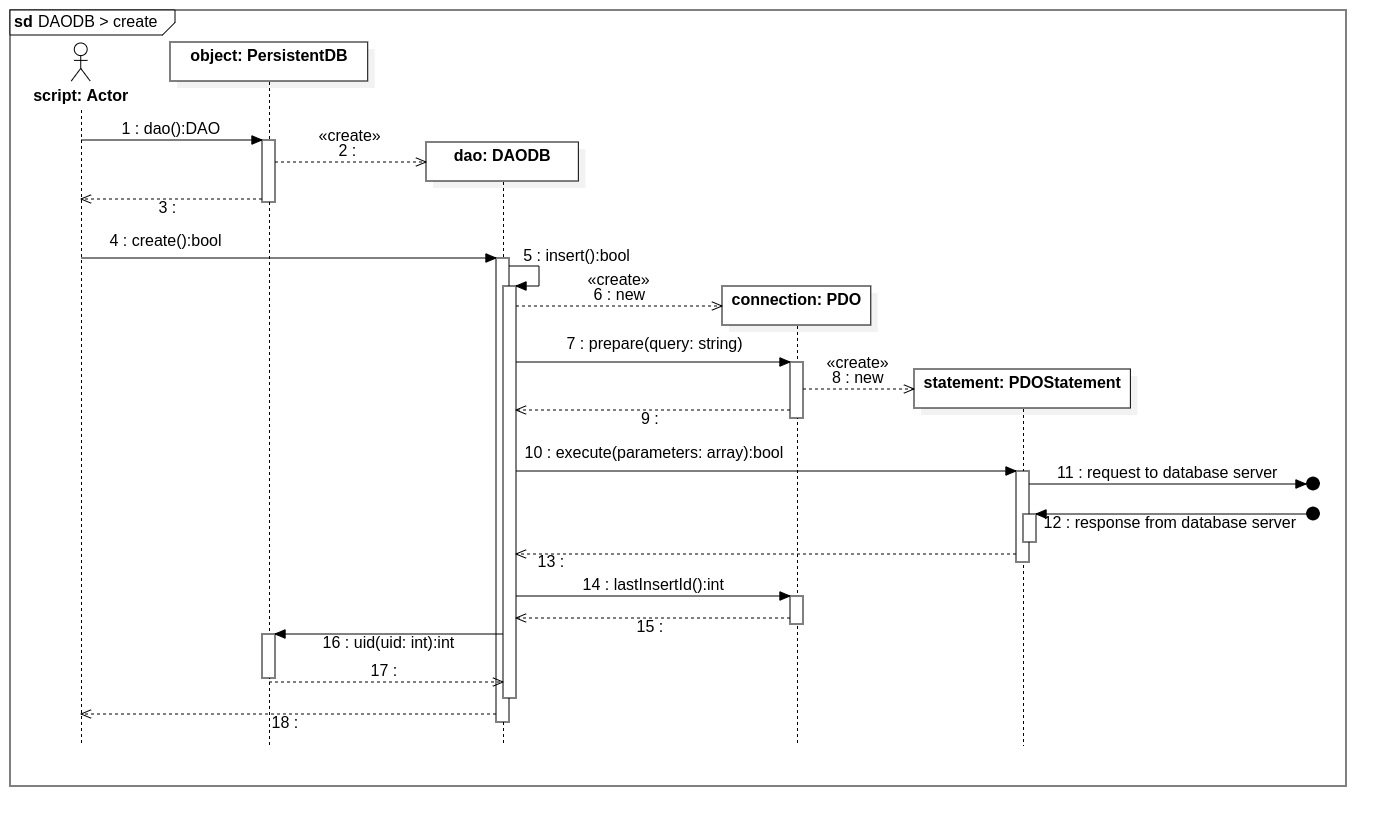
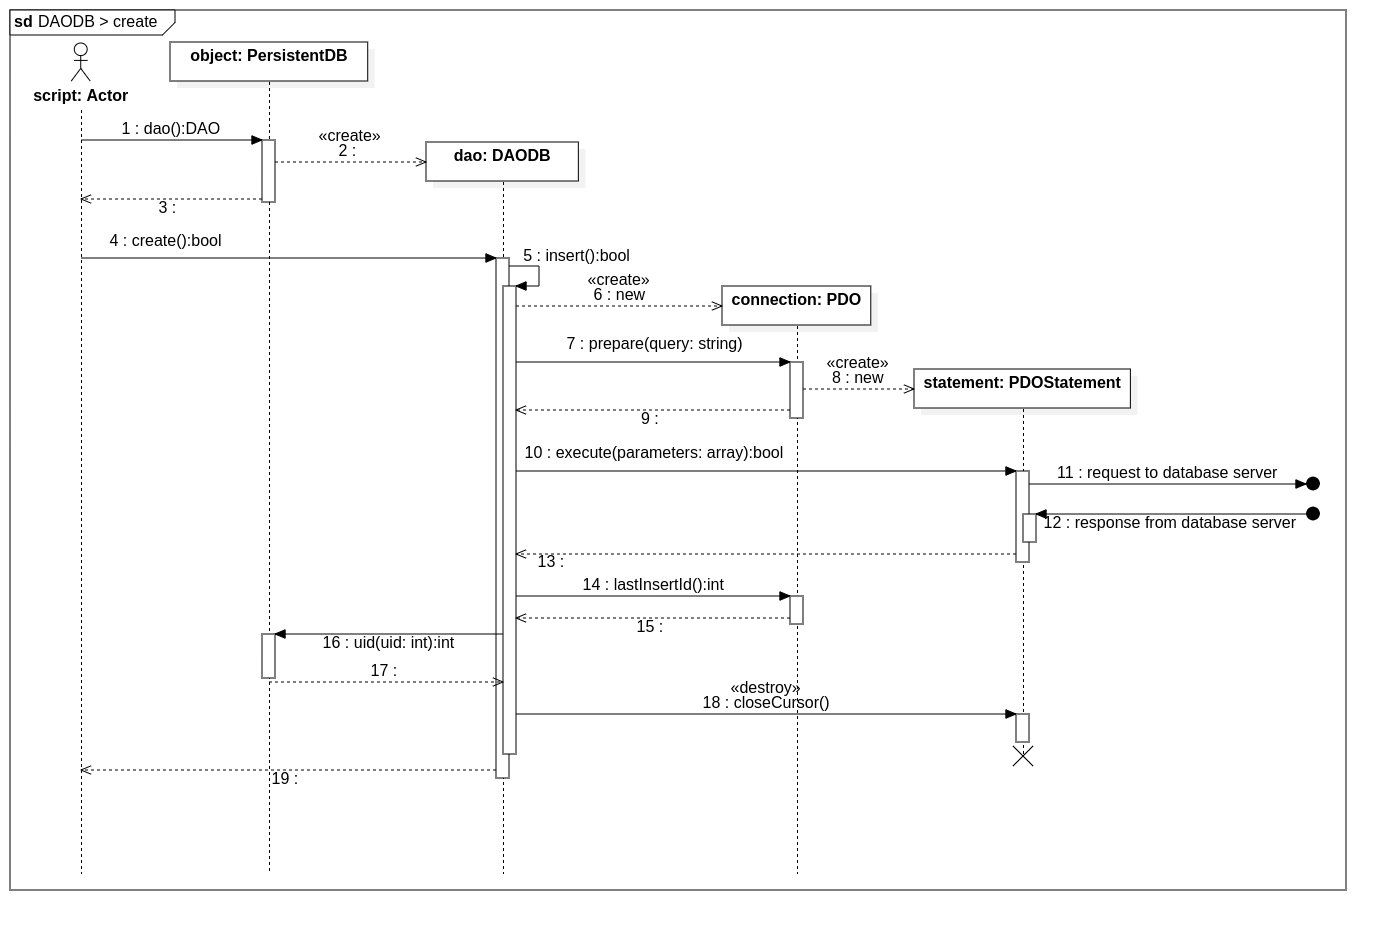
v1.2.1 fix AlumnoDAO::insert

diff --git a/tests/src/tests/dao/AlumnoDAO.php b/tests/src/tests/dao/AlumnoDAO.php
@@ -76,6 +76,8 @@ class AlumnoDAO extends DAODB
          */
         $this->object()->uid( self::connection()->lastInsertId() );
         
+        $statement->closeCursor();
+        
         return $results;
     }
     
